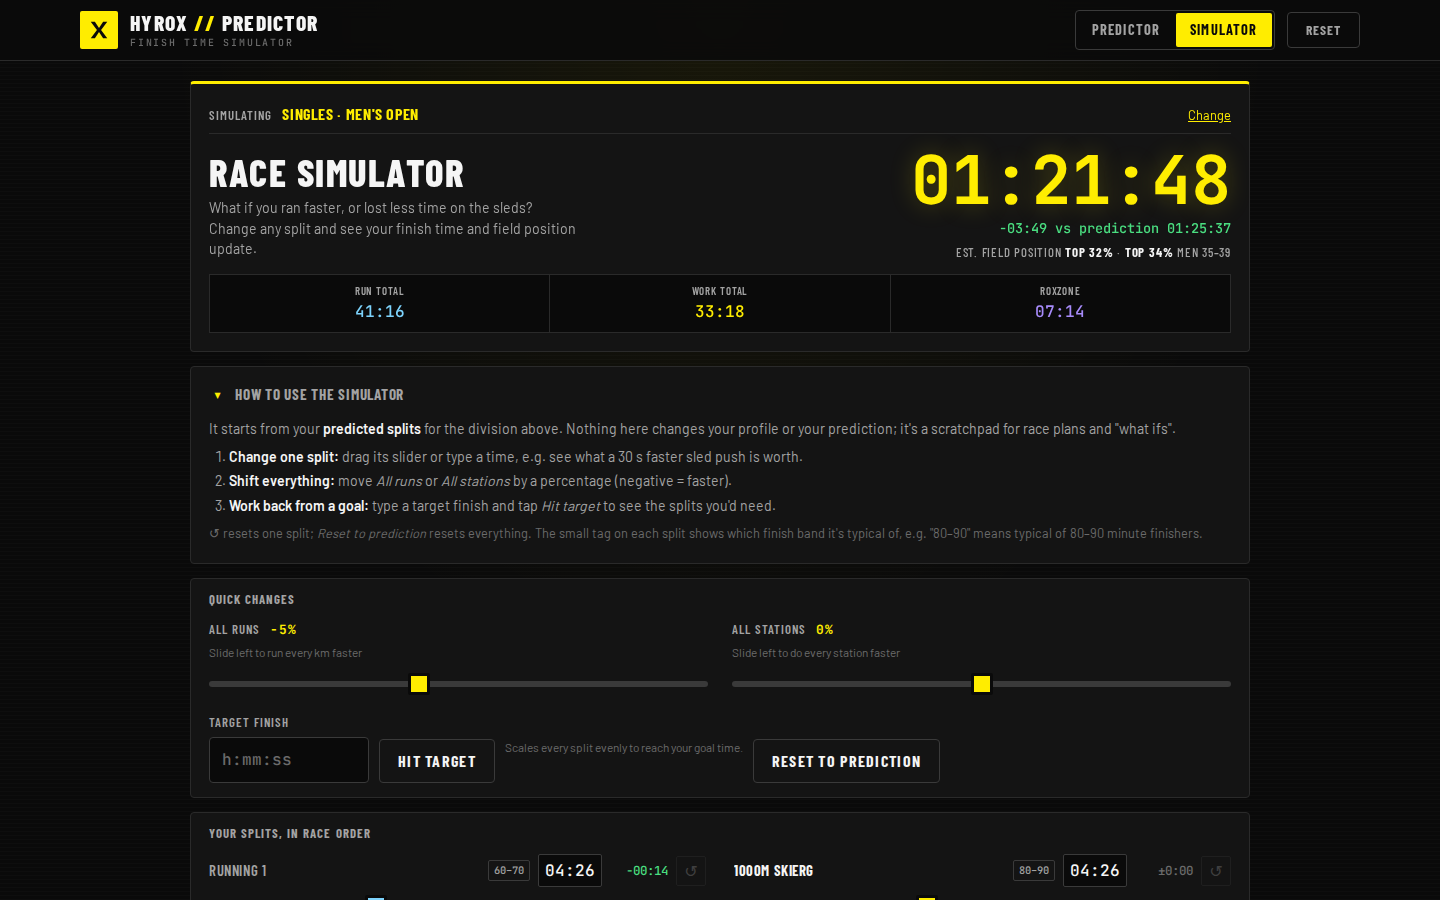
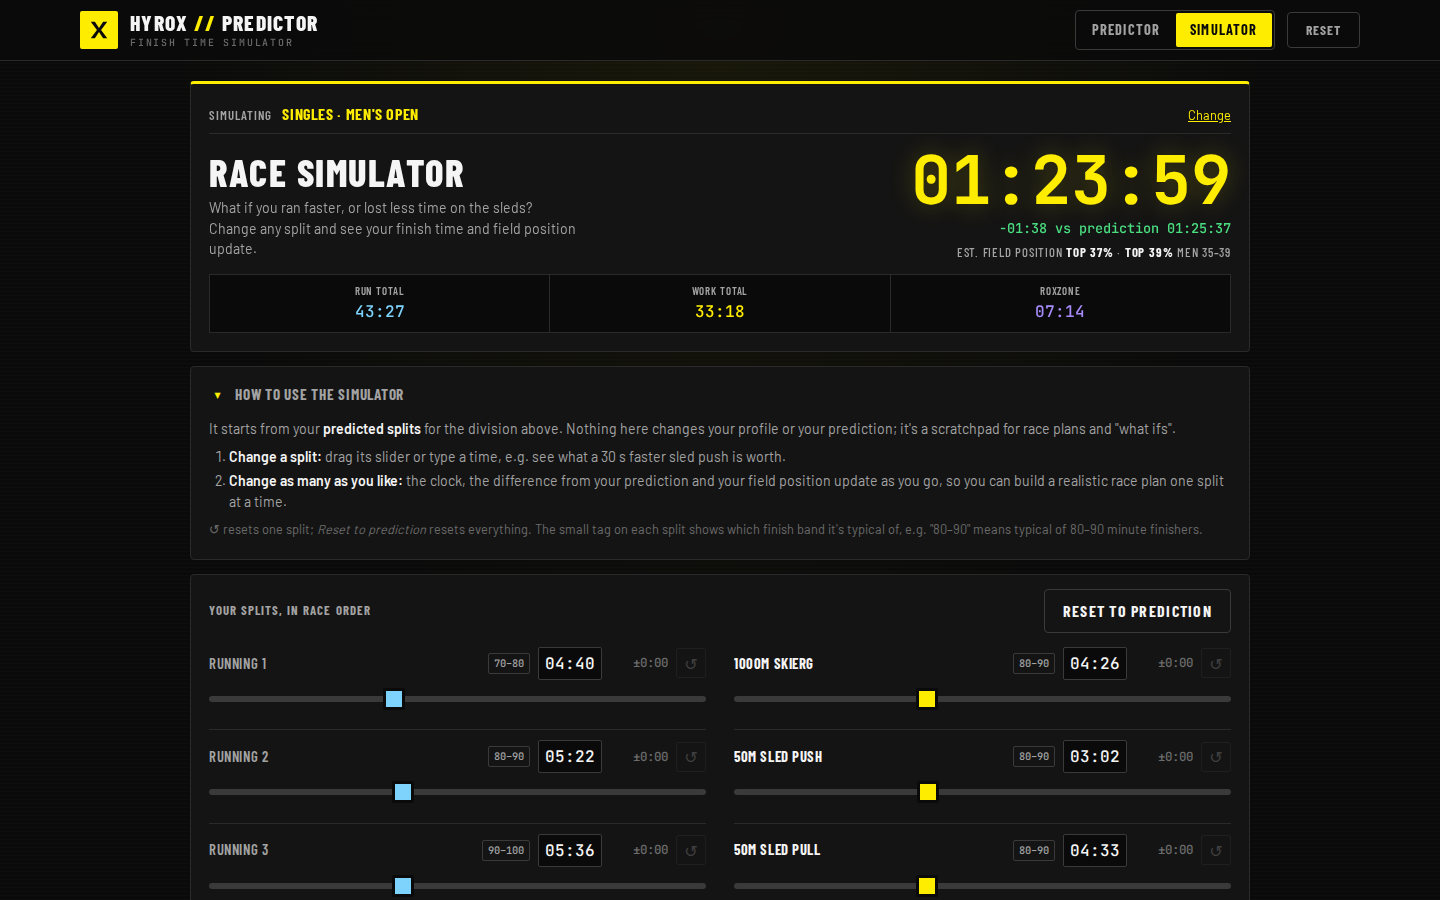
Simulator: remove percentage scaling and 'Hit target'; keep per-split sliders (#15)
Nobody plans a race in percentages or improves every split uniformly. Removed
the All runs / All stations sliders and the target-finish scaler; Reset to
prediction moves to the splits header. Regression test added; docs updated.

Claude-Session: https://claude.ai/code/session_013Dp4gjA5muRSAomANQ1Mvi

diff --git a/src/app/components/simulator-page.html b/src/app/components/simulator-page.html
@@ -36,43 +36,20 @@
         profile or your prediction; it's a scratchpad for race plans and "what ifs".
       </p>
       <ol>
-        <li><b>Change one split:</b> drag its slider or type a time, e.g. see what a 30 s faster sled push is worth.</li>
-        <li><b>Shift everything:</b> move <i>All runs</i> or <i>All stations</i> by a percentage (negative = faster).</li>
-        <li><b>Work back from a goal:</b> type a target finish and tap <i>Hit target</i> to see the splits you'd need.</li>
+        <li><b>Change a split:</b> drag its slider or type a time, e.g. see what a 30 s faster sled push is worth.</li>
+        <li><b>Change as many as you like:</b> the clock, the difference from your prediction and your field position
+          update as you go, so you can build a realistic race plan one split at a time.</li>
       </ol>
       <p class="dim">↺ resets one split; <i>Reset to prediction</i> resets everything. @if (showBands()) { The small tag
         on each split shows which finish band it's typical of, e.g. "80–90" means typical of 80–90 minute finishers. }</p>
     </div>
   </section>
 
-  <section class="panel controls" aria-label="Simulator controls">
-    <h2 class="ctl-title">Quick changes</h2>
-    <label class="scale">
-      <span class="label">All runs <b class="mono">{{ runScale() > 0 ? '+' : '' }}{{ runScale() }}%</b></span>
-      <span class="hint">Slide left to run every km faster</span>
-      <input type="range" min="-30" max="30" step="1" [value]="runScale()" aria-label="Scale all runs, percent"
-        (input)="runScale.set(+$any($event.target).value)" />
-    </label>
-    <label class="scale">
-      <span class="label">All stations <b class="mono">{{ stationScale() > 0 ? '+' : '' }}{{ stationScale() }}%</b></span>
-      <span class="hint">Slide left to do every station faster</span>
-      <input type="range" min="-30" max="30" step="1" [value]="stationScale()" aria-label="Scale all stations, percent"
-        (input)="stationScale.set(+$any($event.target).value)" />
-    </label>
-    <div class="target">
-      <label class="field">
-        <span class="label">Target finish</span>
-        <input type="text" placeholder="h:mm:ss" [value]="targetText()" (input)="targetText.set($any($event.target).value)"
-          (keydown.enter)="hitTarget()" aria-label="Target finish time" />
-      </label>
-      <button type="button" class="btn" (click)="hitTarget()">Hit target</button>
-      <span class="hint t-hint">Scales every split evenly to reach your goal time.</span>
+  <section class="panel rows" aria-labelledby="sim-splits-title">
+    <div class="rows-head">
+      <h2 id="sim-splits-title" class="rows-title">Your splits, in race order</h2>
       <button type="button" class="btn ghost" [disabled]="!changed()" (click)="resetAll()">Reset to prediction</button>
     </div>
-  </section>
-
-  <section class="panel rows" aria-labelledby="sim-splits-title">
-    <h2 id="sim-splits-title" class="rows-title">Your splits, in race order</h2>
     @for (r of rows(); track r.key; let i = $index) {
       @let v = values()[i];
       <div class="row" [attr.data-kind]="r.kind" [class.edited]="edits()[r.key] != null">

diff --git a/src/app/components/simulator-page.ts b/src/app/components/simulator-page.ts
@@ -66,21 +66,10 @@ export class SimulatorPage {
 
   /** User-dragged values by row key; missing = follow the prediction. */
   protected readonly edits = signal<Record<string, number>>({});
-  protected readonly runScale = signal(0);
-  protected readonly stationScale = signal(0);
-  protected readonly targetText = signal('');
-
-  protected value(row: SimRow): number {
-    const v = this.edits()[row.key] ?? row.base;
-    const scale = row.kind === 'run' ? this.runScale() : row.kind === 'station' ? this.stationScale() : 0;
-    return v * (1 + scale / 100);
-  }
 
   protected readonly values = computed(() => {
-    this.edits();
-    this.runScale();
-    this.stationScale();
-    return this.rows().map((r) => this.value(r));
+    const e = this.edits();
+    return this.rows().map((r) => e[r.key] ?? r.base);
   });
 
   protected readonly total = computed(() => this.values().reduce((a, b) => a + b, 0));
@@ -90,9 +79,7 @@ export class SimulatorPage {
   protected readonly workTotal = computed(() => this.sumKind('station'));
   protected readonly top = computed(() => topPercent(this.store.division().id, this.total()));
   protected readonly ageGroup = computed(() => ageGroupPosition(this.store.division(), this.store.athletes()[0], this.total()));
-  protected readonly changed = computed(
-    () => Object.keys(this.edits()).length > 0 || this.runScale() !== 0 || this.stationScale() !== 0,
-  );
+  protected readonly changed = computed(() => Object.keys(this.edits()).length > 0);
 
   /** Band labels only make sense for singles (station medians are singles data). */
   protected readonly showBands = computed(() => this.store.division().format === 'single');
@@ -110,14 +97,12 @@ export class SimulatorPage {
   }
 
   protected set(row: SimRow, raw: string): void {
-    const scale = row.kind === 'run' ? this.runScale() : row.kind === 'station' ? this.stationScale() : 0;
-    const v = Number(raw) / (1 + scale / 100);
-    this.edits.update((e) => ({ ...e, [row.key]: v }));
+    this.edits.update((e) => ({ ...e, [row.key]: Number(raw) }));
   }
 
   protected typeTime(row: SimRow, text: string): void {
     const sec = parseTime(text);
-    if (sec != null && sec > 0) this.set(row, String(sec * (1 + (row.kind === 'run' ? this.runScale() : row.kind === 'station' ? this.stationScale() : 0) / 100)));
+    if (sec != null && sec > 0) this.set(row, String(sec));
   }
 
   protected resetRow(row: SimRow): void {
@@ -129,22 +114,6 @@ export class SimulatorPage {
 
   protected resetAll(): void {
     this.edits.set({});
-    this.runScale.set(0);
-    this.stationScale.set(0);
-  }
-
-  /** Scale every split proportionally so the total hits the target time. */
-  protected hitTarget(): void {
-    const target = parseTime(this.targetText());
-    if (!target || target < 20 * 60) return;
-    const factor = target / this.total();
-    const rows = this.rows();
-    const v = this.values();
-    const next: Record<string, number> = {};
-    rows.forEach((r, i) => (next[r.key] = v[i] * factor));
-    this.runScale.set(0);
-    this.stationScale.set(0);
-    this.edits.set(next);
   }
 
   protected signed(sec: number): string {

diff --git a/e2e/insights-simulator.spec.ts b/e2e/insights-simulator.spec.ts
@@ -43,20 +43,26 @@ test.describe('race simulator page', () => {
     await expect(page.locator('app-simulator-page .delta')).toContainText('±0:00');
   });
 
-  test('type a split, scale all runs, and hit a target time', async ({ page }) => {
+  test('type a split and reset to the prediction', async ({ page }) => {
     await page.goto('./#simulator');
     const sim = page.locator('app-simulator-page');
     const run1 = sim.locator('.row').filter({ hasText: 'Running 1' });
     await run1.getByRole('textbox').fill('4:30');
     await run1.getByRole('textbox').press('Enter');
     await expect(run1.getByRole('textbox')).toHaveValue('04:30');
-    await sim.getByLabel('Scale all runs, percent').fill('10');
-    await expect(sim.locator('.controls')).toContainText('+10%');
-    await sim.getByLabel('Target finish time').fill('1:20:00');
-    await sim.getByRole('button', { name: 'Hit target' }).click();
-    await expect(sim.locator('.clock')).toHaveText('01:20:00');
+    await expect(sim.locator('.delta')).not.toContainText('±0:00');
     await sim.getByRole('button', { name: 'Reset to prediction' }).click();
     await expect(sim.locator('.delta')).toContainText('±0:00');
+  });
+
+  test('REGRESSION: no percentage or uniform-scaling controls, only per-split sliders', async ({ page }) => {
+    // Nobody plans a race in percentages or improves every split by the same amount.
+    await page.goto('./#simulator');
+    const sim = page.locator('app-simulator-page');
+    await expect(sim.getByLabel('Scale all runs, percent')).toHaveCount(0);
+    await expect(sim.getByLabel('Target finish time')).toHaveCount(0);
+    await expect(sim.getByRole('button', { name: 'Hit target' })).toHaveCount(0);
+    await expect(sim.locator('input[type=range]')).toHaveCount(17); // 8 runs, 8 stations, Roxzone
   });
 
   test('works for team divisions and returns to the predictor', async ({ app, page }) => {
@@ -248,10 +254,10 @@ test.describe('simulator: what it simulates and how to use it', () => {
   test('explains how to use it, and the explanation can be collapsed', async ({ page }) => {
     await page.getByRole('link', { name: 'Simulator' }).click();
     const help = page.locator('app-simulator-page .help');
-    await expect(help).toContainText('Change one split');
-    await expect(help).toContainText('Work back from a goal');
+    await expect(help).toContainText('Change a split');
+    await expect(help).toContainText('Change as many as you like');
     const toggle = help.getByRole('button', { name: 'How to use the simulator' });
     await toggle.click();
-    await expect(help.getByText('Change one split')).toBeHidden();
+    await expect(help.getByText('Change a split')).toBeHidden();
   });
 });

diff --git a/src/app/components/simulator-page.scss b/src/app/components/simulator-page.scss
@@ -20,7 +20,8 @@ h1 { font-size: clamp(1.6rem, 4vw, 2.4rem); font-weight: 800; margin-top: 4px; }
   p { margin: 8px 0; } b { color: var(--text); } .dim { font-size: 0.8rem; color: var(--text-faint); }
 }
 .ctl-title, .rows-title { grid-column: 1 / -1; margin: 0; font-size: 0.8rem; text-transform: uppercase; letter-spacing: 0.08em; color: var(--text-dim); }
-.rows-title { padding: 8px 0 4px; }
+.rows-head { grid-column: 1 / -1; display: flex; align-items: center; justify-content: space-between; gap: 10px; padding: 8px 0 4px; flex-wrap: wrap; }
+.rows-title { padding: 0; }
 .hint { font-size: 0.74rem; color: var(--text-faint); }
 .t-hint { align-self: center; }
 .clock { font-size: clamp(2.4rem, 8vw, 4.2rem); font-weight: 700; color: var(--accent); line-height: 1; text-shadow: 0 0 24px rgba(255, 237, 0, 0.25); }

diff --git a/e2e/tutorial.ts b/e2e/tutorial.ts
@@ -90,7 +90,6 @@ test('desktop walkthrough', async ({ app, page }) => {
   await app.division("Men's Open").click();
   await page.getByRole('link', { name: 'Simulator' }).click();
   await page.getByLabel('Wall Balls slider').fill('300');
-  await page.getByLabel('Scale all runs, percent').fill('-5');
   await page.evaluate(() => window.scrollTo(0, 0));
   await page.screenshot({ path: out('17-simulator') });
 });

diff --git a/CHANGELOG.md b/CHANGELOG.md
@@ -10,9 +10,7 @@ All notable changes to this project are documented here. The format follows
 - **Simulator explains itself:**
   - it says what it's simulating (e.g. "Singles · Men's Open" or "Doubles · Mixed Doubles · Sam & Alex · team times"),
     with a Change link;
-  - a collapsible "How to use the simulator" box covers the three ways to use it (change one split, shift everything,
-    work back from a target);
-  - controls are labelled "Quick changes" and "Your splits, in race order", with hints.
+  - a collapsible "How to use the simulator" box explains it: change any split and watch the finish update.
 - **Wall balls: "Usual set size for 100 reps"** (e.g. sets of 20) is now the main wall-ball input in Quick and Detailed.
   Most people know it, and it's closer to race behaviour than a max-unbroken test. It's converted at sets ≈ 60% of max
   unbroken; max unbroken and 100-for-time stay as alternatives. Gains and reasons are phrased in sets.
@@ -45,6 +43,8 @@ All notable changes to this project are documented here. The format follows
   100%. Team tactics shows which partner sets the running pace, and flags it if that pace is only assumed.
 
 ### Removed
+- **Simulator "All runs / All stations" percentage sliders and "Hit target":** nobody plans a race in percentages or
+  improves every split by the same amount. The per-split sliders stay.
 - **"Karen"** (a CrossFit benchmark): the app sticks to things an average athlete knows. Old saves drop it.
 - **Resting heart rate:** too rough to be worth entering (its VO₂max estimate is about ±10%, and it only mattered with
   no race time and no VO₂max).

diff --git a/docs/TUTORIAL.md b/docs/TUTORIAL.md
@@ -169,11 +169,9 @@ it to delete them. Nothing ever leaves your device.
 Open **Simulator** in the header, or go straight to `…/#simulator`. The top line says what it's simulating (e.g.
 **Singles · Men's Open**, or the doubles team and "team times"). It's a scratchpad for "what ifs" that never changes your
 prediction. It starts from your predicted splits, with a slider (and a time box) for every run, every station and the
-Roxzone. The **How to use** box explains the three ways to use it:
+Roxzone. The **How to use** box explains it:
 - The clock, the difference from your prediction and your estimated field position update as you drag.
 - Tags such as **80–90** show which finish band each split is typical of.
-- Use **All runs** / **All stations** to scale a whole group.
-- Enter a **Target finish** and press **Hit target** to scale everything to that time.
 - **Reset to prediction** starts over.
 
 ![Simulator](tutorial/17-simulator.png)

diff --git a/README.md b/README.md
@@ -46,8 +46,7 @@ you can play back.
 
   Deterministic, with no AI.
 - **Simulator page** (`#simulator`): drag a slider for every run, station and the Roxzone and watch the finish time
-  and field position change. It shows which finish band each split is typical of, scales all runs or stations at
-  once, and can solve for a target time.
+  and field position change. It shows which finish band each split is typical of.
 - **Race simulator:** plays the race back along a run/station/Roxzone timeline.
 - Supports kg and lb. Mobile-first, with a sticky summary dock on phones.
 
